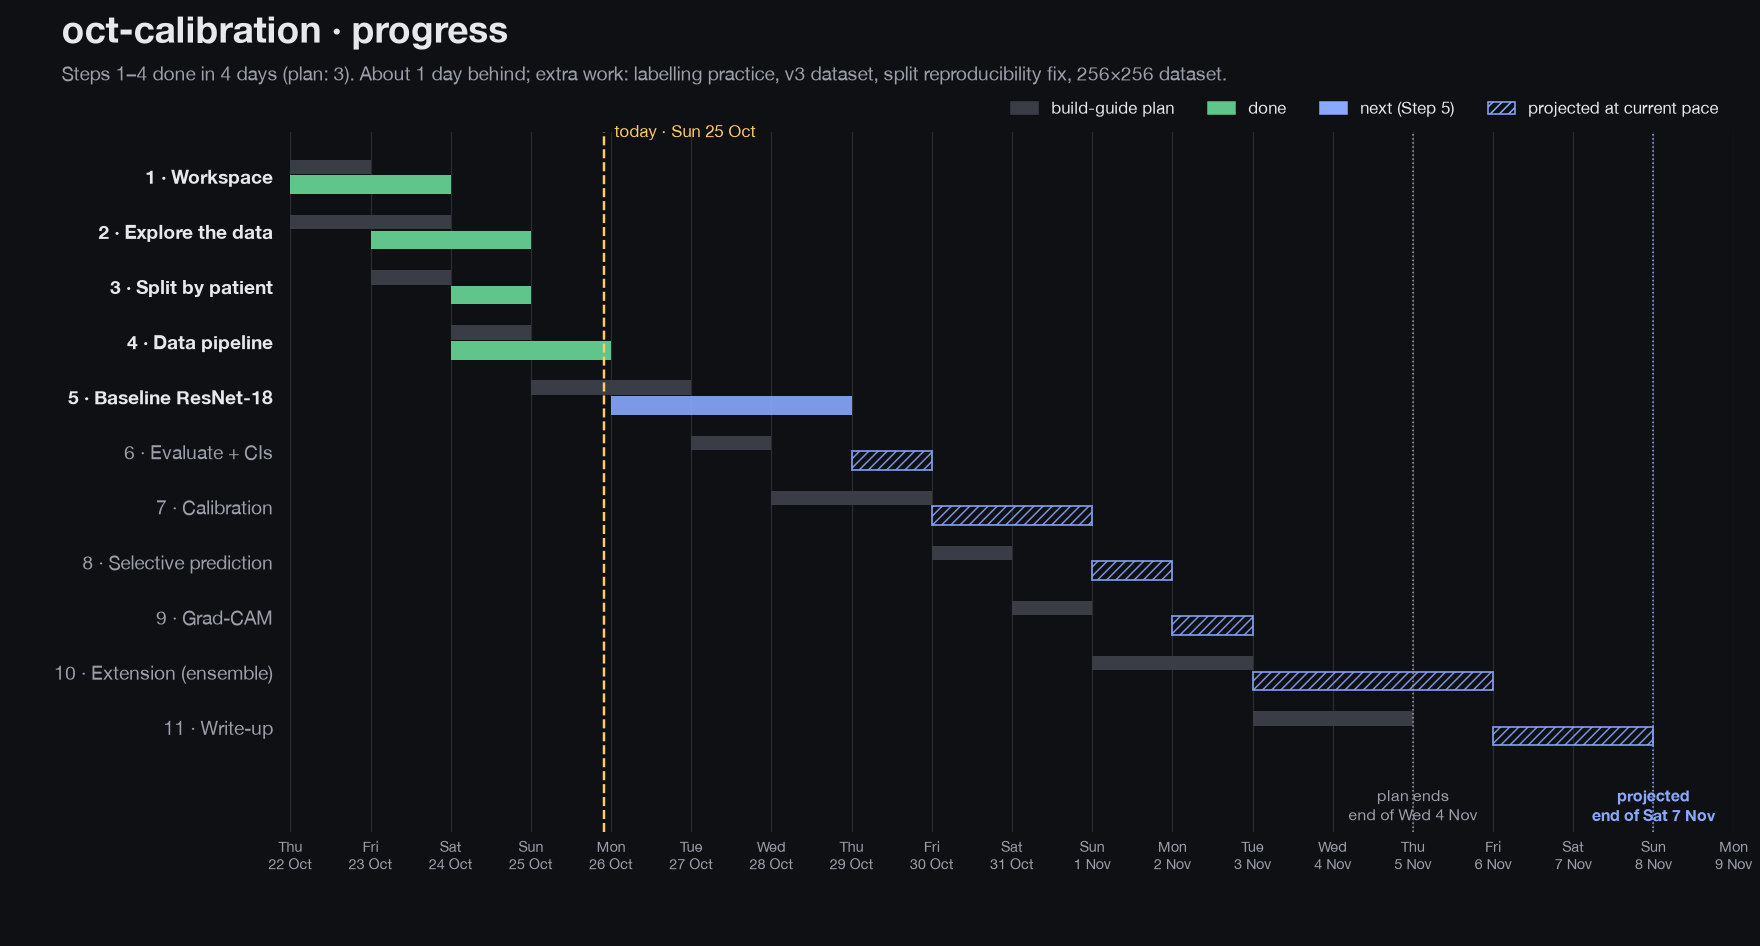
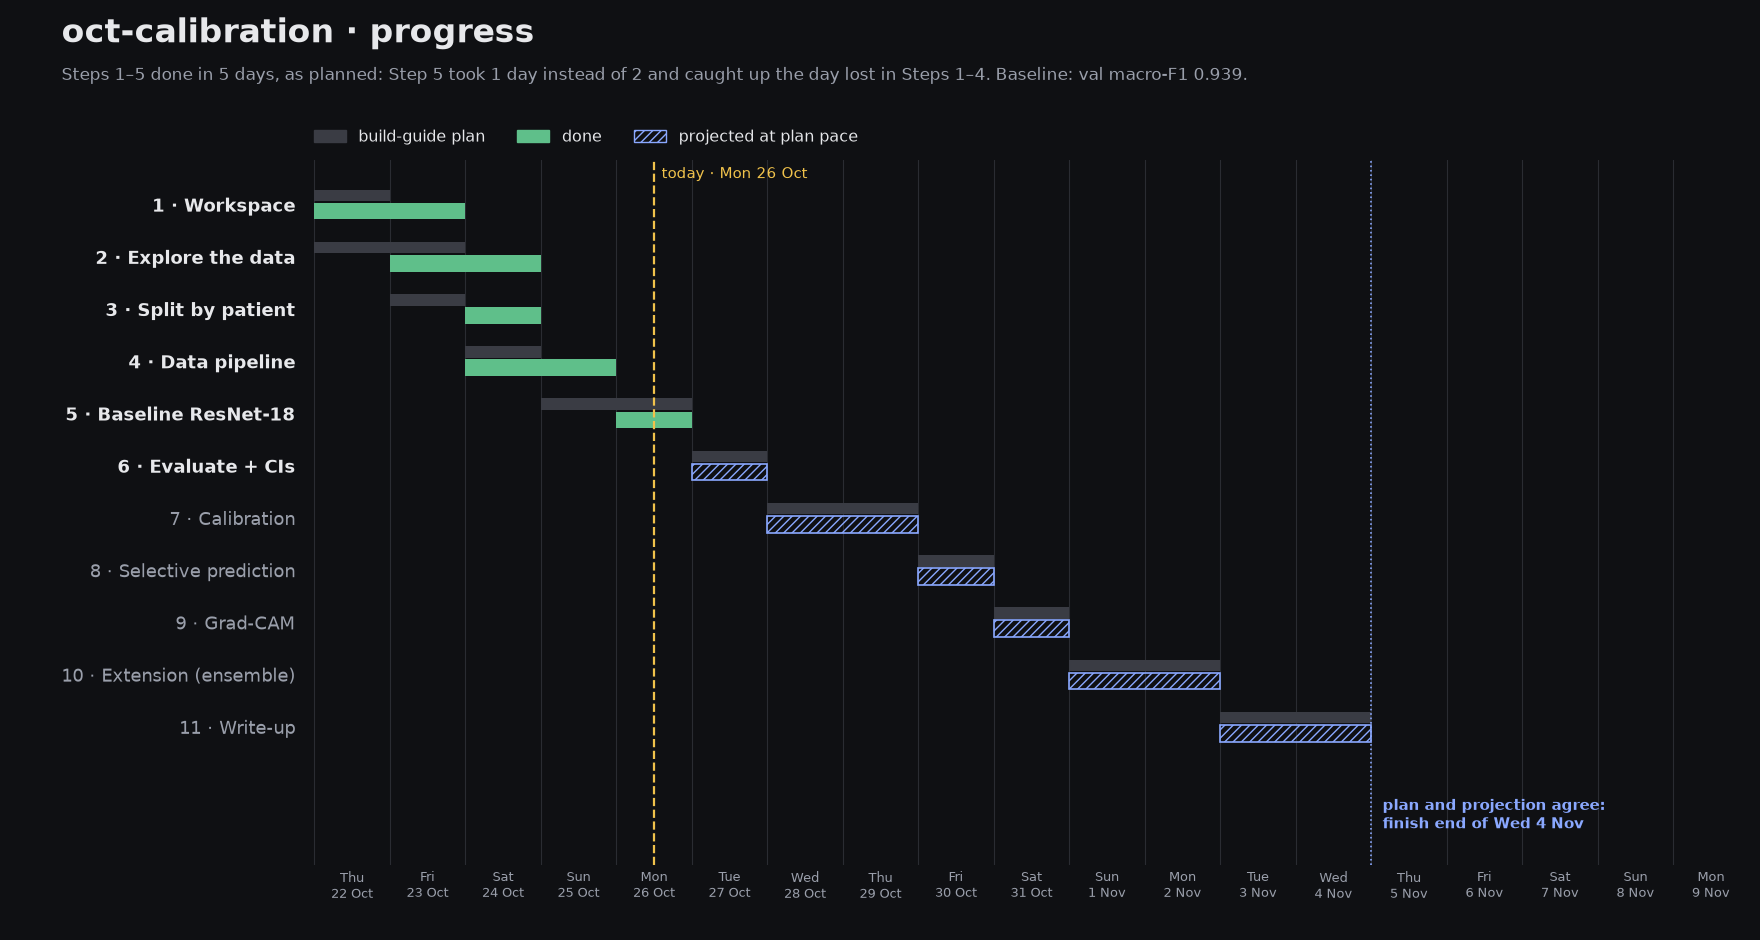
Update timeline and docs after Step 5
Steps 1-5 done in 5 days, on plan; projected finish Wed 4 Nov. Marks Step 5
done in the build guide, adds a Progress section to NOTES and the timeline
to the README.

diff --git a/NOTES.md b/NOTES.md
@@ -2,6 +2,12 @@
 
 **Code layout rule:** real code lives in `.py` files under `src/`. The notebook only clones the repo and calls those files.
 
+## Progress
+
+Steps 1–5 done in 5 days, on the build guide's plan. Step 5 took 1 day instead of 2 and caught up the day lost in Steps 1–4. At plan pace, the finish (Step 11) is the end of **Wed 4 Nov**.
+
+![Progress timeline](figures/timeline.png)
+
 ## Daily log
 
 One entry a day: what I tried, what broke, what I learned. Newest first.
@@ -15,6 +21,7 @@ One entry a day: what I tried, what broke, what I learned. Newest first.
 - On Kaggle (Tesla T4): first loss 1.621, overfit one batch → 0.0. Smoke test, 3 epochs on 10,000 scans: val macro-F1 **0.910**, test 0.975, 37 s per epoch. Fixed a PyTorch warning: with mixed precision the scaler can skip an optimiser step, so the scheduler now skips with it.
 - New notebook: turning Internet on restarts the session (lost `sys.path`), and a failed clone leaves Python caching "no module here". The setup cell now clears that cache and checks everything up front.
 - Full run as a saved version (data copy 63 s, then 8 epochs × ~262 s on a T4): best val macro-F1 **0.9388** at epoch 6, test 0.981. DRUSEN is the weakest class (val F1 0.86), confused mostly with CNV. Step 5 done.
+- Merged Step 5 into `main` (PR #2, squash). Updated the timeline: back on the plan, projected finish Wed 4 Nov.
 
 </details>
 

diff --git a/docs/OCT-Build-Guide.md b/docs/OCT-Build-Guide.md
@@ -269,6 +269,8 @@ A trained checkpoint, a training log you can plot, and a logits file. Published 
 
 Validation macro-F1 is above about 0.90, the best checkpoint is in Drive, and the logits file exists.
 
+> ✅ Done Mon 26 Oct 2026: validation macro-F1 0.939 (epoch 6), test 0.981. `best.pt` and the logits are Kaggle outputs (`runs/step5_baseline/` locally) rather than Drive. Details in `NOTES.md` (Step 5 · Baseline).
+
 
 ### Watch for
 

diff --git a/README.md b/README.md
@@ -89,6 +89,8 @@ The weakest class is DRUSEN (validation F1 0.86), mostly confused with CNV ([per
 | 10 | One extension, e.g. a deep ensemble | |
 | 11 | Write-up | |
 
+![Progress timeline](figures/timeline.png)
+
 The full plan is in [`docs/OCT-Build-Guide.md`](docs/OCT-Build-Guide.md), and the day-by-day log is in [`NOTES.md`](NOTES.md).
 
 ## Data
